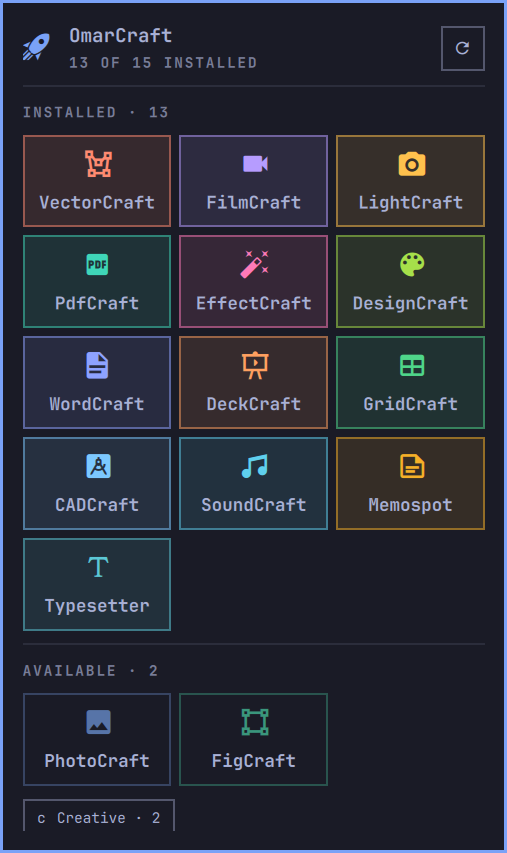
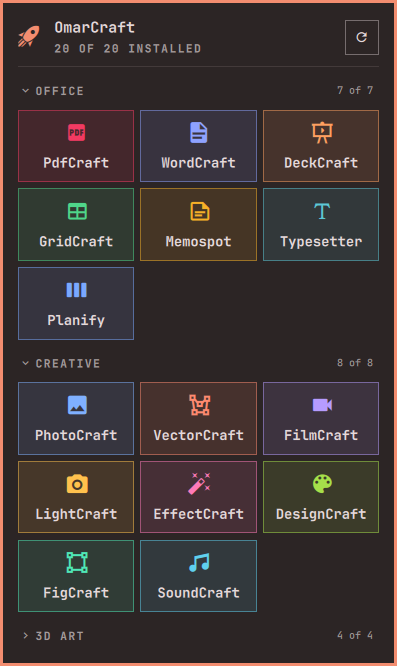
0.5.8: date the release; new preview.png; acceptance rows from the author's checks
preview.png: the 0.5.8 panel on the author's machine (hero, Office and Creative open,
3D Art). Rows 68-71, 73, 74, 76 passed, 78 n/a. 0.5.7 is not released on its own.

diff --git a/docs/v1-acceptance.md b/docs/v1-acceptance.md
@@ -160,16 +160,16 @@ commit hash. Nothing ships with a FAIL in the *Must* rows.
 | 65 | 0.5.7 · Switch on (`FOLLOW_APP_REPOS=1`): every 0.5.6 test passes unchanged | aa6fca6 | PASS | 2026-11-09, the 267 earlier tests run with it on; 20 new tests with it off; ten breaks, each caught |
 | 66 | 0.5.7 · Upgrade from every earlier release (`tests/upgrade-paths.sh`), back online with every tool | aa6fca6 | PASS | 2026-11-09, against the local branch: 0.1.0, 0.2.0, 0.5.0, 0.5.1, 0.5.2, 0.5.3, 0.5.4, 0.5.5 and 0.5.6 all `ok`, online, 16 tools, 7 updates (WordCraft and GridCraft among them) |
 | 67 | 0.5.7 · The other machines, after the release: `omarchy plugin update`, the two badges, Enter, rows 59 and 61 on each | | pending | |
-| 68 | 0.5.8 · The live `catalog.rs` gives 17 apps; the panel shows 20 tools (17 + Typesetter, Memospot, Planify) | | pending | |
-| 69 | 0.5.8 · Three categories with the decided members; Craft Anything alone in the footer | | pending | |
-| 70 | 0.5.8 · Accordion: Enter opens and closes a category; the state survives a shell restart; 3D Art opens by itself once for the new apps | | pending | |
-| 71 | 0.5.8 · No version number anywhere in the panel: badges, confirms, rows, subtexts | | pending | |
+| 68 | 0.5.8 · The live `catalog.rs` gives 17 apps; the panel shows 20 tools (17 + Typesetter, Memospot, Planify) | 7880687 | PASS (user) | 2026-11-10: the panel shows `20 OF 20 INSTALLED`; `list` 22 lines, AniCraft and MailCraft (added by ArtCraft on 2026-11-10) not packaged yet, so not shown |
+| 69 | 0.5.8 · Three categories with the decided members; Craft Anything alone in the footer | 7880687 | PASS (user) | 2026-11-10 screenshots: Office (7, Memospot and Planify included), Creative (8), 3D Art (4), Craft Anything alone at the bottom; order Office, Creative, 3D Art (the author, 2026-11-10) |
+| 70 | 0.5.8 · Accordion: Enter opens and closes a category; the state survives a shell restart; 3D Art opens by itself once for the new apps | 7880687 | PASS (user) | Open and closed categories kept across several shell restarts (`openCategories` in the shell settings); opening by itself for new apps: offline tests |
+| 71 | 0.5.8 · No version number anywhere in the panel: badges, confirms, rows, subtexts | 7880687 | PASS (user) | 2026-11-10 screenshots: badges read Update / New, no version anywhere in the panel; offline test over every panel text |
 | 72 | 0.5.8 · Update all with two apps pending: one job, then `✓ Updated A and B`, gone on the next key | | pending | |
-| 73 | 0.5.8 · Install SolidCraft, TextureCraft and MaterialCraft with `3` (one job), launch each from its tile, remove one | | pending | |
-| 74 | 0.5.8 · Install and launch Craft Anything from the footer | | pending | |
+| 73 | 0.5.8 · Install SolidCraft, TextureCraft and MaterialCraft with `3` (one job), launch each from its tile, remove one | 7880687 | PASS (user) | 2026-11-10 02:03: MaterialCraft and SolidCraft installed in one `pacman -U` (TextureCraft before, 22:38); 3D Art `4 of 4` |
+| 74 | 0.5.8 · Install and launch Craft Anything from the footer | 7880687 | PASS (user) | 2026-11-09 22:05: Craft Anything installed from the footer and launched (the author: "craft anything is amazing") |
 | 75 | 0.5.8 · An old menu entry `install-group notes` still installs Office's missing apps | | pending | |
-| 76 | 0.5.8 · A list that parses to 0 apps: `check` says so, the panel keeps the built-in list | | pending | |
+| 76 | 0.5.8 · A list that parses to 0 apps: `check` says so, the panel keeps the built-in list | 7880687 | PASS | Offline tests (a list with no readable app: `check` and `list` say so, the built-in list is used) |
 | 77 | 0.5.8 · Upgrade from every earlier release, back online with every tool | | pending | |
-| 78 | 0.5.8 · The other machines after the release | | pending | |
+| 78 | 0.5.8 · The other machines after the release |  | n/a | The author has no other machine (2026-11-10) |
 | 79 | 0.5.7 · The review of 0.5.6 (#14528): a mirror that never finishes cannot hold a check: `checkupdates` stops at 2 minutes, a background refresh at 5, the panel ends a run still going after 5; the previous answer is kept | | PASS | 2026-11-10, offline tests (a never-ending fake mirror cut off in 1 s, no process left), three breaks caught. Rows 68–78 are 0.5.8's |
 | 80 | 0.5.7 · On the author's machine after the fix: a normal check still completes (online, the lists read, the badges right) | 8c7a678 | PASS | 2026-11-10 02:30, on the author's machine with the same code merged into 0.5.8 (70e7d79): `refresh -f` completed in 5 s, the repo lists refreshed, the panel online, 22 tools listed (ArtCraft added AniCraft and MailCraft, both not packaged yet), no warning |

diff --git a/CHANGELOG.md b/CHANGELOG.md
@@ -1,6 +1,6 @@
 # Changelog
 
-## 0.5.8 — unreleased
+## 0.5.8 — 2026-11-11
 
 ArtCraft's new apps, and a panel that stays simple with twenty tools. Plan and decisions in
 `docs/v0.5.8-plan.md`; design Round 7 on the design canvas.
@@ -22,12 +22,14 @@ ArtCraft's new apps, and a panel that stays simple with twenty tools. Plan and d
   (`list`, `check`) still shows versions.
 - The UPDATES strip names the apps; the apps stay in their category with their badge.
 - Cache format 6: the first read after the update fetches the list at once.
-- **Fixed: trackpad scrolling ran in bursts.** With the pointer resting on the panel, every tile that slid
-  under it moved the cursor and started its tooltip, and the list moved about twice a second (measured).
-  While the list scrolls, and a moment after, hovering now does nothing.
+- New `preview.png`: the 0.5.8 panel.
+- **Fixed: two-finger scrolling on a trackpad was unusable.** The list moved in bursts about twice a second
+  (measured), while touch and drag were smooth. A layer on top of the list now takes the trackpad's scroll
+  and moves the list by exactly the distance the fingers move; while the list scrolls, hovering does
+  nothing, so tiles passing under the pointer no longer start tooltips.
 - MailCraft, which ArtCraft added on 2026-11-10, is placed in Office; it shows once it has a package.
 
-## 0.5.7 — unreleased
+## 0.5.7 — not released on its own: everything below is in 0.5.8
 
 WordCraft and GridCraft come from the AUR again, so OmarCraft offers ArtCraft's releases within hours, and
 every network check has a deadline. The decisions and their cases are in `docs/v0.5.7-plan.md`.

diff --git a/docs/v0.5.8-plan.md b/docs/v0.5.8-plan.md
@@ -1,8 +1,8 @@
 # OmarCraft 0.5.8 plan
 
-**Status: approved 2026-11-09 (the author: "plan approved, build 0.5.8 and deploy locally"; the three open
-points agreed: rows layout kept, names-only notification, the footer drawn first). Built the same day on the
-local branch `v0.5.8-dev`, which starts from 0.5.7; released after 0.5.7.** The design is Round 7 on the design canvas
+**Status: approved 2026-11-09; built on `v0.5.8-dev` with 0.5.7 merged in, including the fix for the
+marketplace review of 0.5.6 (#14528); released 2026-11-11 (the author: "OK for release"). 0.5.7 was not
+released on its own: the author chose to submit 0.5.8 only (one review instead of two).** The design is Round 7 on the design canvas
 (https://claude.ai/artifact/JCcaokq9mHv7Ju6FVoK74D), with the footer below added to it before the build.
 
 ## Why
